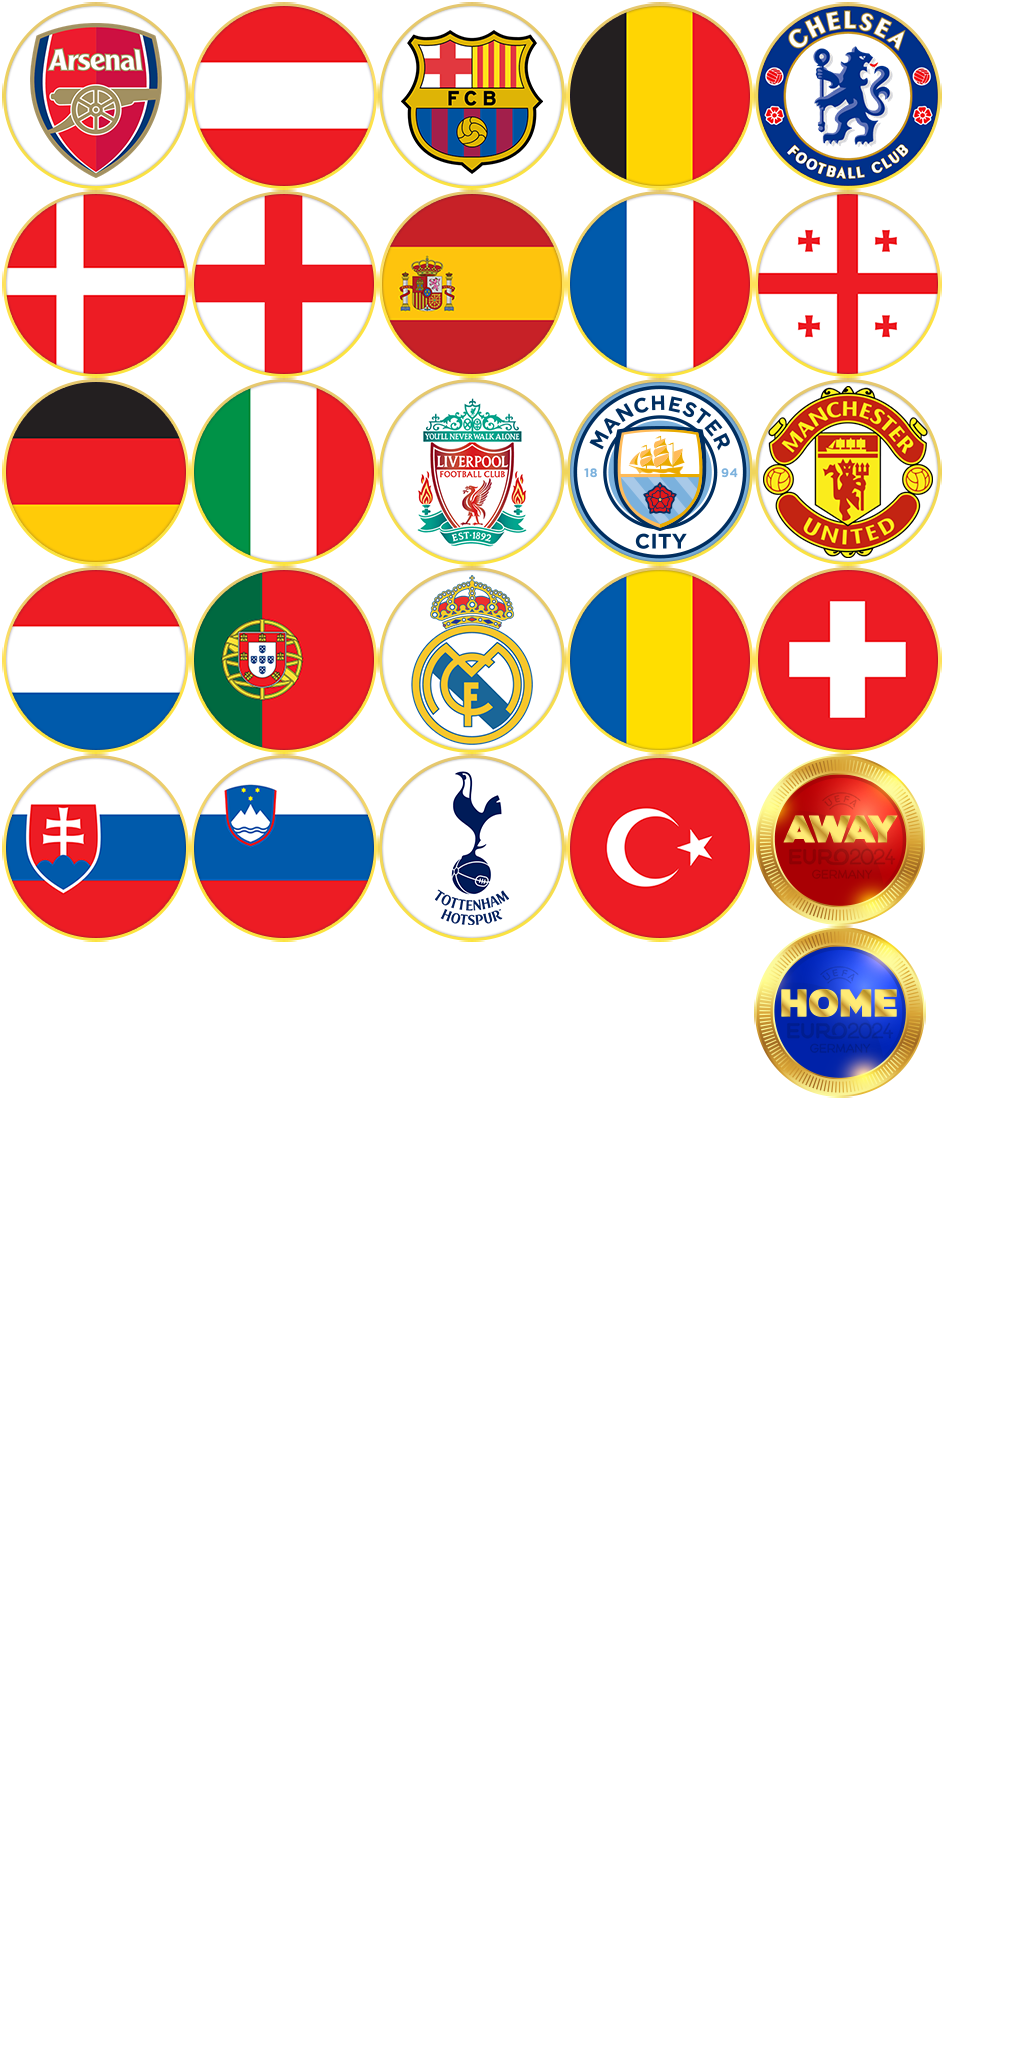
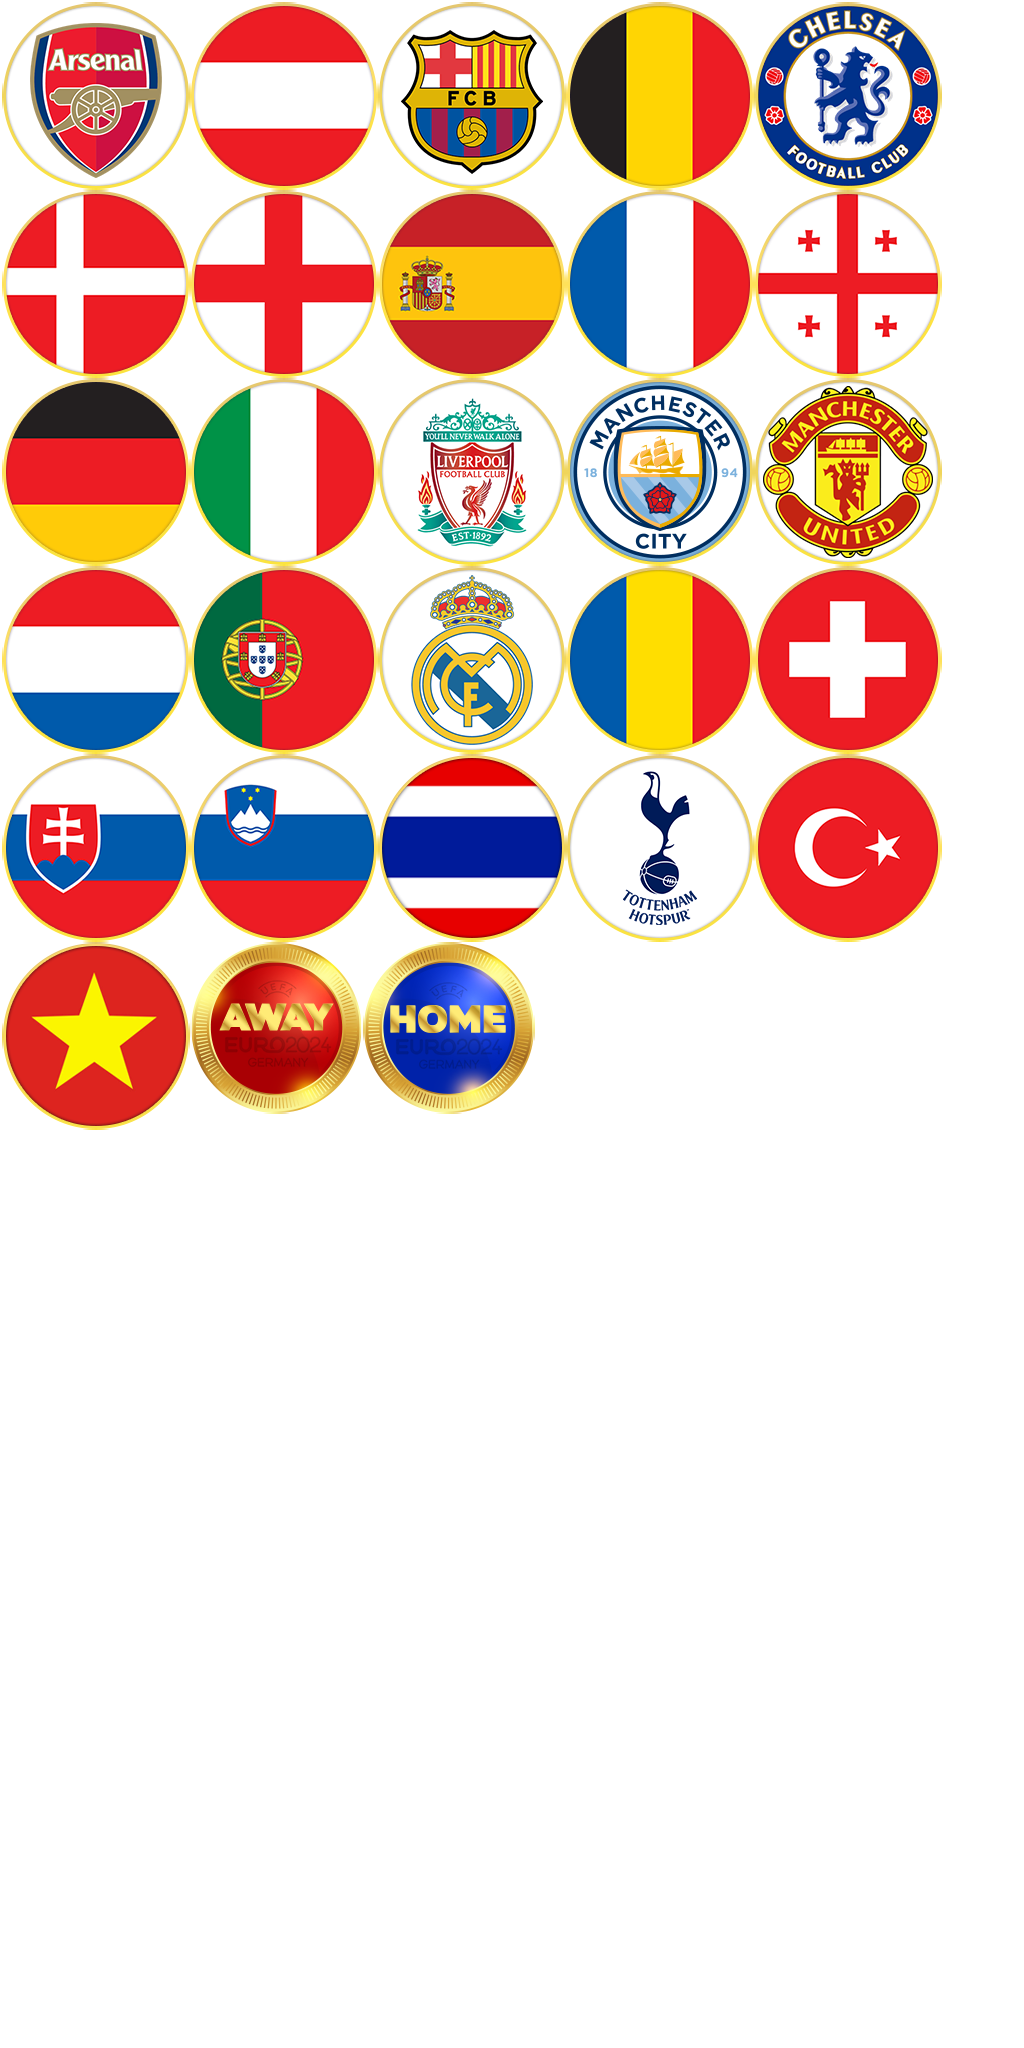
chore: update flags

Changed region(s): [[0.0, 0.3438, 0.9375, 0.5625]]

diff --git a/graphics/pack-resources.py b/graphics/pack-resources.py
@@ -4,29 +4,39 @@ import os
 import shutil
 import subprocess
 
+
+def pack_directory(project_dir, input_dir, output_path):
+    # Pack.
+    packer_path = os.path.join(project_dir, 'pack.js')
+    
+    input_json = os.path.join(project_dir, input_dir, 'texture_packer.json')
+    if os.path.exists(input_json):
+        subprocess.Popen([
+            'node',
+            packer_path,
+            '-t',
+            'remote', 
+            '-a',
+            'http://10.10.50.17:3456',
+            '-i',
+            input_json,
+            '-o',
+            output_path
+        ]).wait()
+
 if __name__ == '__main__':
     current_dir = os.path.dirname(os.path.realpath(__file__))
     project_dir = os.path.join(current_dir, '')
-
-    images_dir = ".\images/flags"
-
-    # Pack.
-    packer_path = os.path.join(
-        project_dir,
-        'pack.js'
-    )
-
-    outputPath = os.path.join(project_dir, images_dir, 'packed')
-    subprocess.Popen([
-        'node',
-        packer_path,
-        '-t',
-        'remote',
-        '-a',
-        'http://10.10.50.17:3456',
-        '-i',
-        os.path.join(project_dir, images_dir, 'texture_packer.json'),
-        '-o',
-        outputPath
-    ]).wait()
+    
+    # Danh sách các thư mục cần pack
+    input_dirs = [
+        'images/flags-portrait',
+        'images/flags'
+    ]
+    
+    output_path = os.path.join(project_dir, '..\\', 'src\\assets\\game-instant\\images')
+    
+    # Pack từng thư mục
+    for input_dir in input_dirs:
+        pack_directory(project_dir, input_dir, output_path)
 
